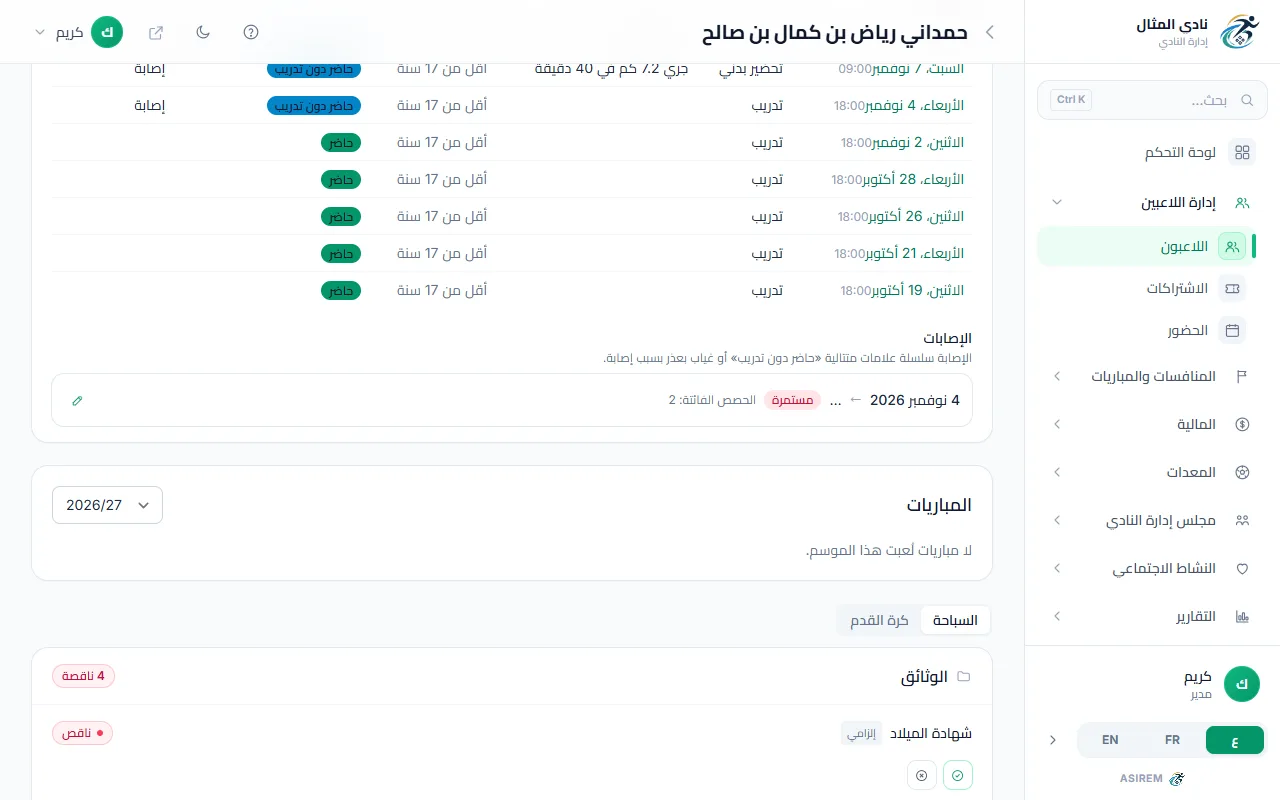
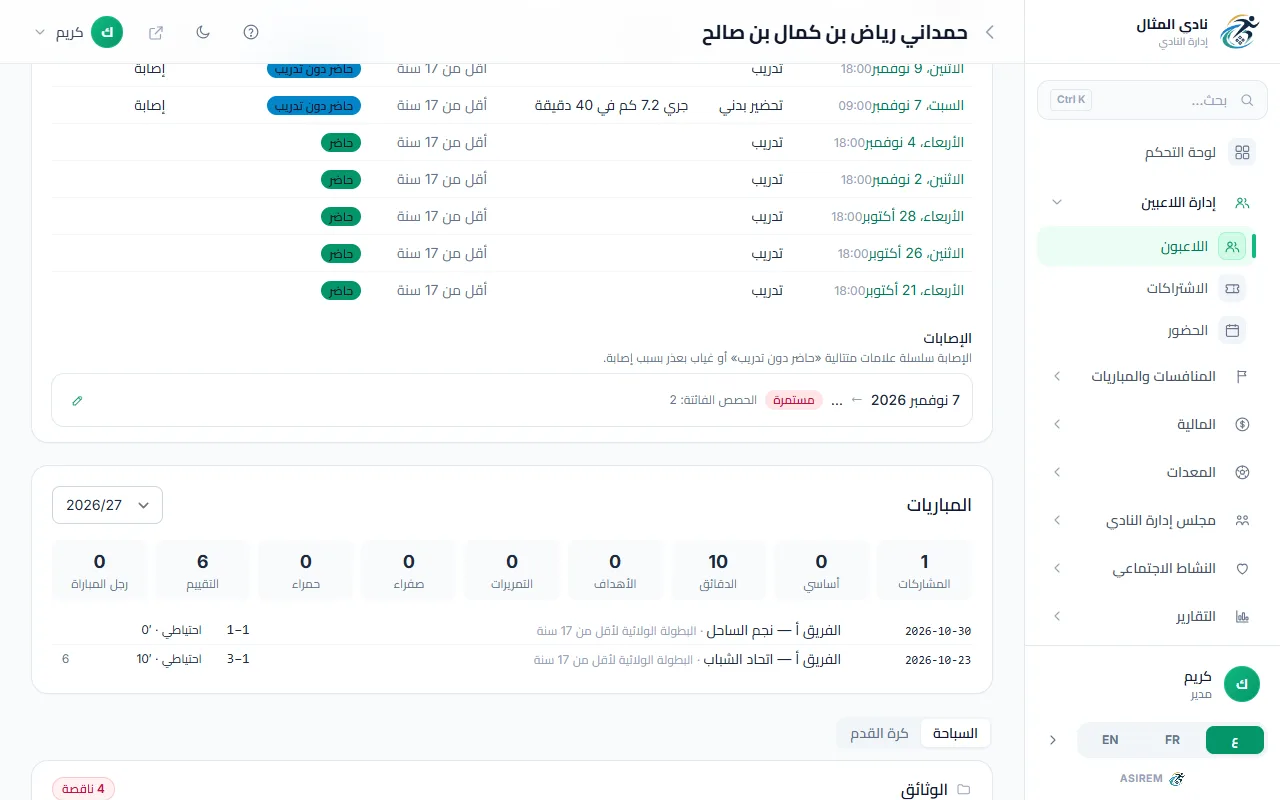
fix(help): retake older shots changed by the competitions demo; seeder test coverage

diff --git a/tests/Feature/Help/HelpDemoCompetitionsSeederTest.php b/tests/Feature/Help/HelpDemoCompetitionsSeederTest.php
@@ -19,6 +19,8 @@ use App\Models\Team;
 use App\Models\TrainingSession;
 use App\Models\User;
 use App\Models\Venue;
+use App\Services\Competitions\CompetitionRecord;
+use App\Services\Competitions\PlayerFlags;
 use App\Support\Season;
 use Database\Seeders\HelpDemoCompetitionsSeeder as Demo;
 use Database\Seeders\HelpDemoSeeder;
@@ -70,6 +72,10 @@ class HelpDemoCompetitionsSeederTest extends TestCase
         );
         $this->assertSame(0, Opponent::whereNotNull('logo_url')->count());
         $this->assertNull(Opponent::where('name', Demo::OPP_YOUTH)->value('city'));
+        $this->assertSame(
+            [Demo::OPP_UNION => Demo::CITY_UNION, Demo::OPP_STAR => Demo::CITY_STAR, Demo::OPP_HOPE => Demo::CITY_HOPE],
+            Opponent::whereNotNull('city')->orderBy('id')->pluck('city', 'name')->all(),
+        );
         $this->assertSame('البليدة', Opponent::where('name', Demo::OPP_UNION)->value('city'));
         $this->assertEqualsCanonicalizing([Demo::VENUE_HOME, Demo::VENUE_TOWN, Demo::VENUE_HALL], Venue::pluck('name')->all());
         $this->assertSame([Demo::VENUE_HOME], Venue::where('is_home', true)->pluck('name')->all());
@@ -169,11 +175,31 @@ class HelpDemoCompetitionsSeederTest extends TestCase
         $this->assertSame($this->player('عبد الرحمن بلعيد')->id, $ban->player_id);
         $this->assertSame(['auto', 'red', 1, $m2->id], [$ban->source, $ban->cause, $ban->matches_count, $ban->game_id]);
 
-        // M3: the banned and the injured left out with a reason.
-        $this->assertEqualsCanonicalizing([Demo::REASON_BANNED, Demo::REASON_INJURED], $m3->players()->where('called_up', false)->pluck('not_called_reason')->all());
-        $this->assertTrue((bool) $m3->players()->where('player_id', $this->player('زكرياء عمراني')->id)->value('is_goalkeeper'));
+        // M2: four events; أنس has two yellows (M1, M2), one short of the threshold of three.
+        $this->assertSame(['goal' => 1, 'sanction' => 2, 'substitution' => 1], $m2->events()->get()->countBy('type')->sortKeys()->all());
+        $this->assertSame(2, GameEvent::where('type', 'sanction')->where('subtype', 'yellow')->where('player_id', $this->player('أنس لعريبي')->id)->count());
+        $this->assertSame(0, GameEvent::where('type', 'sanction')->where('subtype', 'yellow')->where('player_id', '!=', $this->player('أنس لعريبي')->id)->count());
 
-        // M4: call-up of six saved, no line-up.
+        // M3: two goals; only the banned goalkeeper has a not-called row, رياض has none.
+        $this->assertSame(['goal' => 2], $m3->events()->get()->countBy('type')->all());
+        $this->assertSame([Demo::REASON_BANNED], $m3->players()->where('called_up', false)->pluck('not_called_reason')->all());
+        $this->assertFalse($m3->players()->where('player_id', $this->player('رياض حمداني')->id)->exists());
+        $this->assertSame(
+            [0 => 'زكرياء', 1 => 'أنس', 2 => 'ياسين', 3 => 'أمين', 4 => 'أحمد'],
+            $m3->players()->where('role', 'starter')->with('player')->orderBy('slot')->get()->mapWithKeys(fn (GamePlayer $gp) => [$gp->slot => $gp->player->firstname])->all(),
+        );
+        $this->assertSame(0, $m3->players()->where('role', 'bench')->count());
+        $this->assertTrue((bool) $m3->players()->where('player_id', $this->player('زكرياء عمراني')->id)->value('is_goalkeeper'));
+        $this->assertTrue((bool) $m3->players()->where('player_id', $this->player('أمين قاسمي')->id)->value('is_captain'));
+
+        // The team's record: 3 played, 2 W 1 D 0 L, goals 6–2.
+        $record = CompetitionRecord::fromGames($competition->games()->get());
+        $this->assertSame([3, 2, 1, 0, 6, 2, ['W', 'D', 'W']], [
+            $record['played'], $record['wins'], $record['draws'], $record['losses'], $record['goals_for'], $record['goals_against'], $record['form'],
+        ]);
+
+        // M4: call-up of six saved, no line-up; رياض is injured on the seed day, before M4.
+        $this->assertTrue(app(PlayerFlags::class)->injured()[$this->player('رياض حمداني')->id] ?? false);
         $this->assertSame(6, $m4->players()->where('called_up', true)->count());
         $this->assertSame([Demo::REASON_INJURED], $m4->players()->where('called_up', false)->pluck('not_called_reason')->all());
         $this->assertSame(0, $m4->players()->where('role', '!=', 'none')->count());
@@ -195,8 +221,14 @@ class HelpDemoCompetitionsSeederTest extends TestCase
         $this->assertSame(2027, $s);
 
         $this->assertSame(5, Game::where('season_start_year', $s)->count());
-        // F(-3) falls before the season start; the competition keeps the match in season S.
-        $this->assertSame('2027-08-13', $this->game(Demo::ROUND_1)->date);
+        // 2027-09-03 is a Friday: F(-1) is the Friday before it, F(1) the one after; no match on D.
+        // F(-3) and F(-4) fall before the season start; the competition keeps them in season S.
+        $this->assertSame(
+            ['2027-08-13', '2027-08-20', '2027-08-27', '2027-09-10', '2027-08-06'],
+            [$this->game(Demo::ROUND_1)->date, $this->game(Demo::ROUND_2)->date, $this->game(Demo::ROUND_3)->date, $this->game(Demo::ROUND_4)->date, Game::whereNull('round_label')->value('date')],
+        );
+        $this->assertSame(0, Game::where('date', '2027-09-03')->count());
+        $this->assertTrue(app(PlayerFlags::class)->injured()[$this->player('رياض حمداني')->id] ?? false);
 
         $this->actingAs(User::where('username', HelpDemoSeeder::USERNAME)->firstOrFail())
             ->get(route('games.stats'))

diff --git a/database/seeders/HelpDemoCompetitionsSeeder.php b/database/seeders/HelpDemoCompetitionsSeeder.php
@@ -45,6 +45,12 @@ class HelpDemoCompetitionsSeeder extends Seeder
 
     public const OPP_YOUTH = 'شباب الحي';
 
+    public const CITY_UNION = 'البليدة';
+
+    public const CITY_STAR = 'تيبازة';
+
+    public const CITY_HOPE = 'المدية';
+
     public const VENUE_HOME = 'ملعب حي النصر';
 
     public const VENUE_HOME_ADDRESS = 'شارع الاستقلال';
@@ -112,9 +118,9 @@ class HelpDemoCompetitionsSeeder extends Seeder
 
         $opponents = [];
         foreach ([
-            [self::OPP_UNION, 'البليدة', ['#1d4ed8', '#facc15', 'shield']],
-            [self::OPP_STAR, 'تيبازة', ['#b91c1c', '#f8fafc', 'circle']],
-            [self::OPP_HOPE, 'المدية', ['#15803d', '#f8fafc', 'diamond']],
+            [self::OPP_UNION, self::CITY_UNION, ['#1d4ed8', '#facc15', 'shield']],
+            [self::OPP_STAR, self::CITY_STAR, ['#b91c1c', '#f8fafc', 'circle']],
+            [self::OPP_HOPE, self::CITY_HOPE, ['#15803d', '#f8fafc', 'diamond']],
             [self::OPP_YOUTH, null, null],
         ] as [$name, $city, $logo]) {
             $image = $logo === null ? null : HelpDemoImages::logo(...$logo);
@@ -219,15 +225,16 @@ class HelpDemoCompetitionsSeeder extends Seeder
             ['substitution', null, 33, 'أحمد', 'ياسين'],
         ]);
 
-        // M3 — 2–0 at home, زكرياء in goal; the banned and the injured left out with a reason.
-        $this->leftOut($m3, ['عبد الرحمن' => self::REASON_BANNED, 'رياض' => self::REASON_INJURED]);
+        // M3 — 2–0 at home, زكرياء in goal; the banned goalkeeper left out with a reason. رياض is
+        // simply not called (no row): his attendance-demo injury may start after F(-1) on some seed days.
+        $this->leftOut($m3, ['عبد الرحمن' => self::REASON_BANNED]);
         $this->lineup($m3, ['زكرياء', 'أنس', 'ياسين', 'أمين', 'أحمد'], [], goalkeeper: 'زكرياء');
         $this->report($m3, [[1, 0], [1, 0]], [
             ['goal', 'normal', 9, 'أمين', null],
             ['goal', 'normal', 34, 'أحمد', 'أنس'],
         ]);
 
-        // M4 — call-up saved (رياض out, injured), no line-up yet.
+        // M4 — call-up saved (رياض out, injured: his injury starts before D, M4 is after D), no line-up yet.
         $this->leftOut($m4, ['رياض' => self::REASON_INJURED]);
         foreach (['عبد الرحمن', 'أنس', 'أمين', 'ياسين', 'زكرياء', 'أحمد'] as $first) {
             GamePlayer::create([
